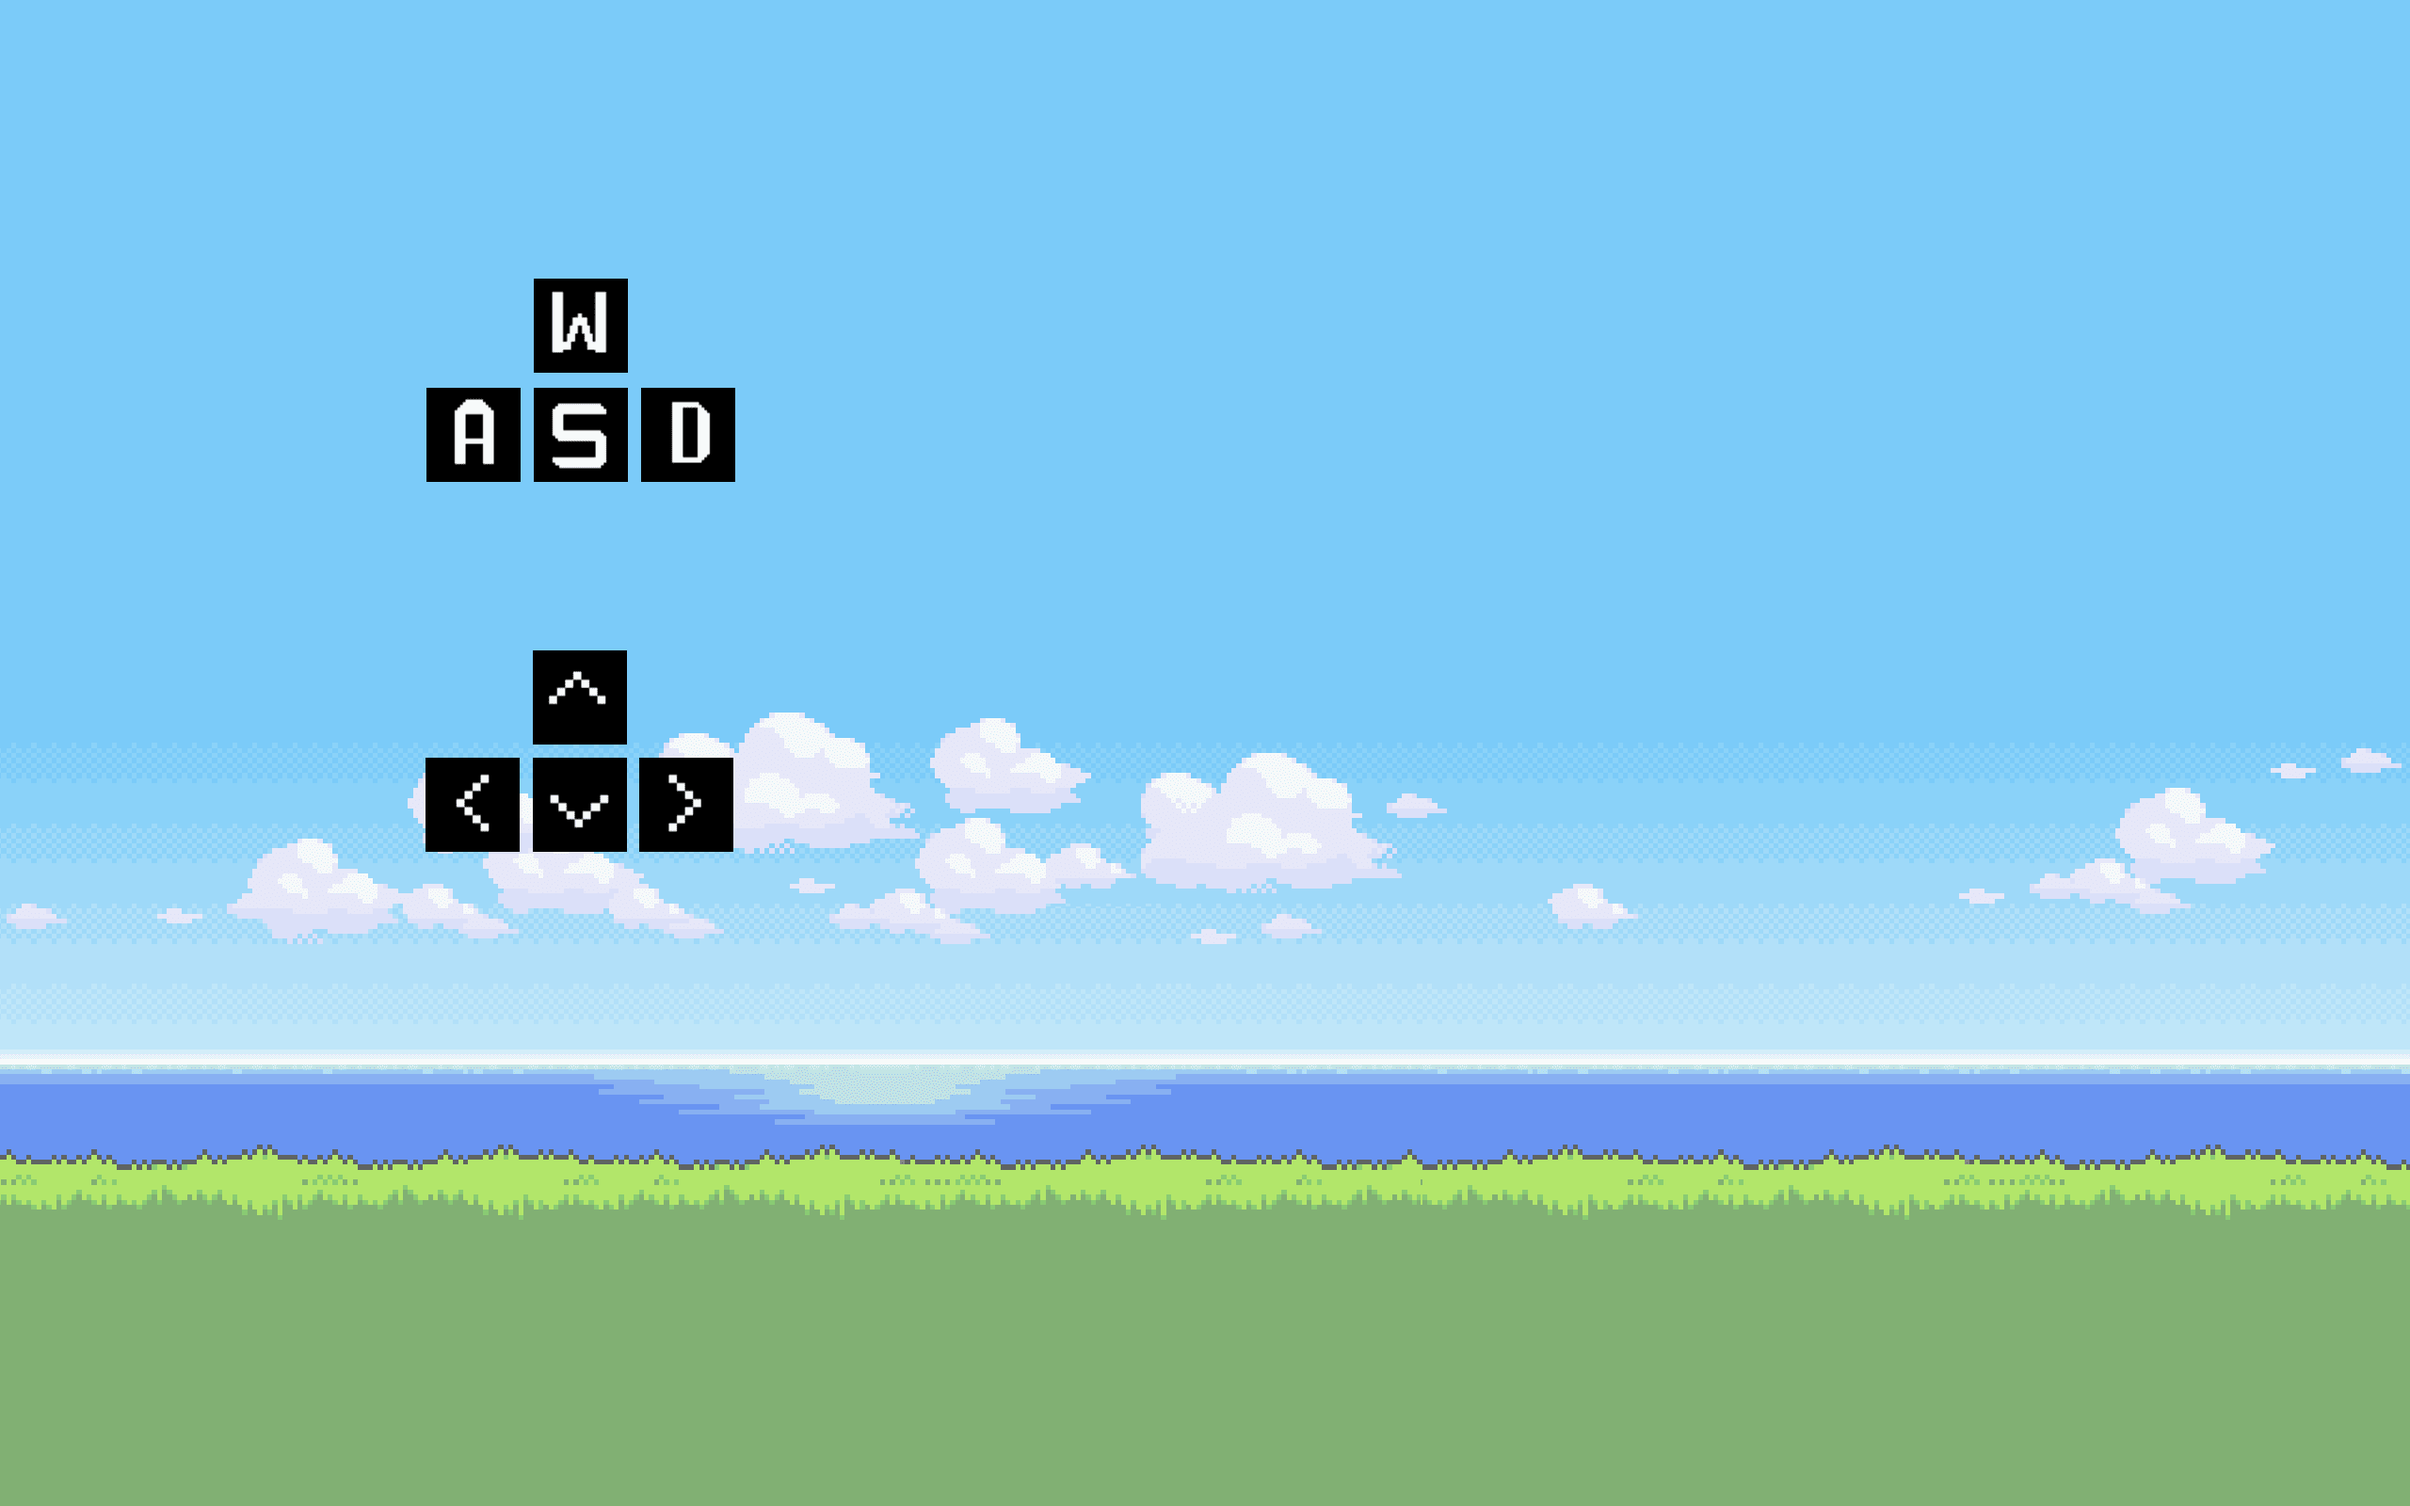
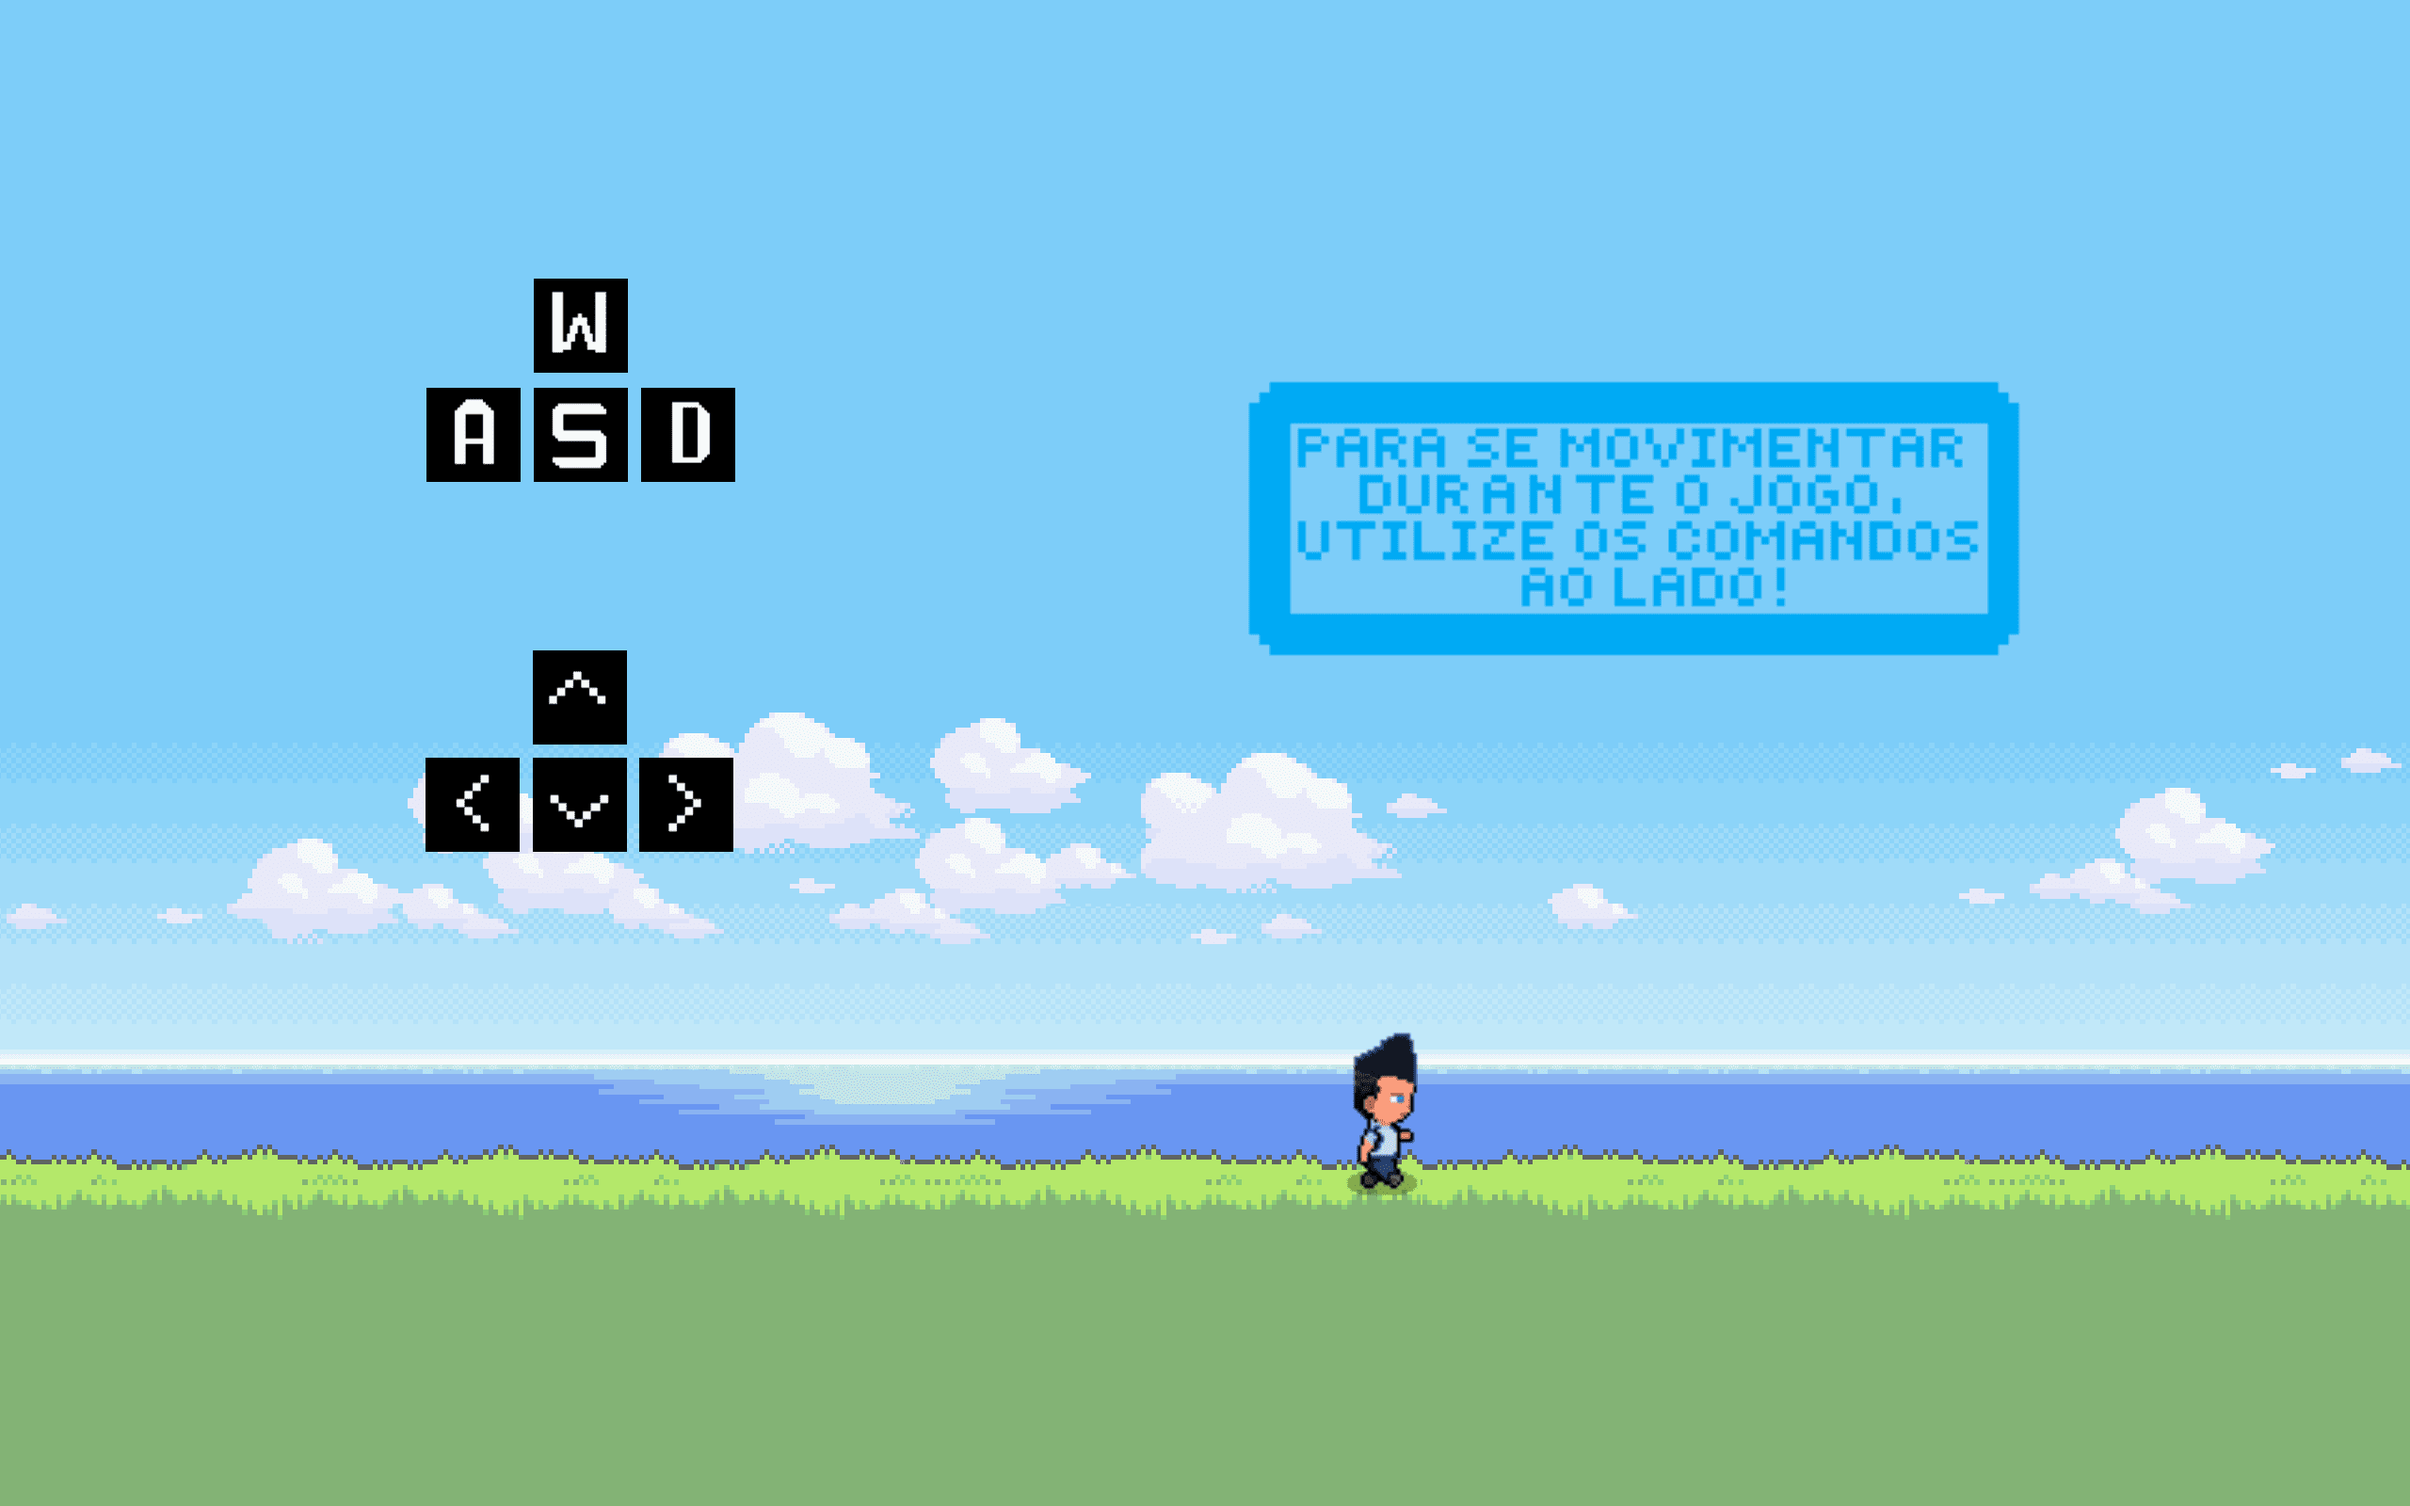
Control Screen.

Changed region(s): [[0.5, 0.25, 0.8438, 0.4375], [0.5625, 0.6875, 0.5938, 0.8125]]

diff --git a/data/screens.py b/data/screens.py
@@ -238,6 +238,7 @@ class ControlsScreen(Screen):
 
     def __init__(self, *args, **kwargs):
         super().__init__(*args, **kwargs)
+        Screen.set_bg(self, "bg_control_screen.png")
 
     def run_events(self, running):
 
@@ -248,10 +249,9 @@ class ControlsScreen(Screen):
                                    "Voltar", "blue_button")
 
         back_button.draw_button(self.scn)
-        font = pygame.font.Font("fonts/chalkduster.ttf", 60)
-        text = font.render("Bem-vindos, senhores!", True, (29, 13, 64))
-        self.scn.blit(text, (50, 80))
-
+        #font = pygame.font.Font("fonts/chalkduster.ttf", 60)
+        #text = font.render("Bem-vindos, senhores!", True, (29, 13, 64))
+        #self.scn.blit(text, (50, 80))
 
         click = False
         for event in pygame.event.get():

diff --git a/data/itens.py b/data/itens.py
@@ -1,8 +1,5 @@
 import pygame
 from settings import *
-import random as rnd #teste, apagar depois
-from pygame.math import Vector2 as Vec  #teste, apagar depois
-
 
 class Item(pygame.sprite.Sprite):
 
